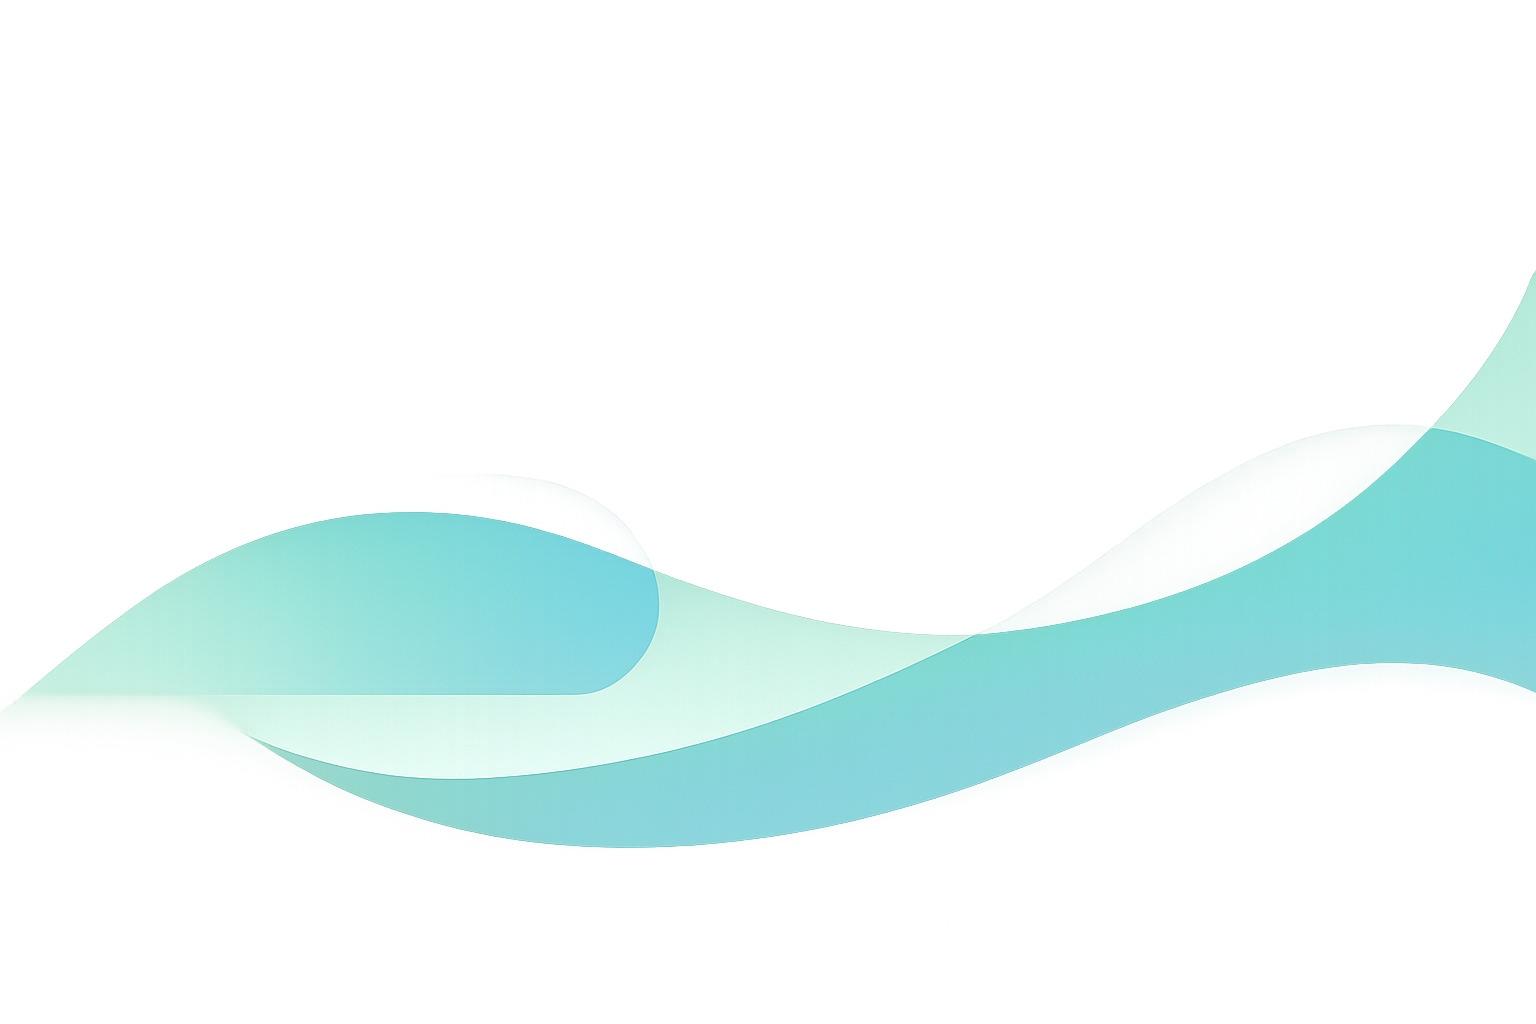
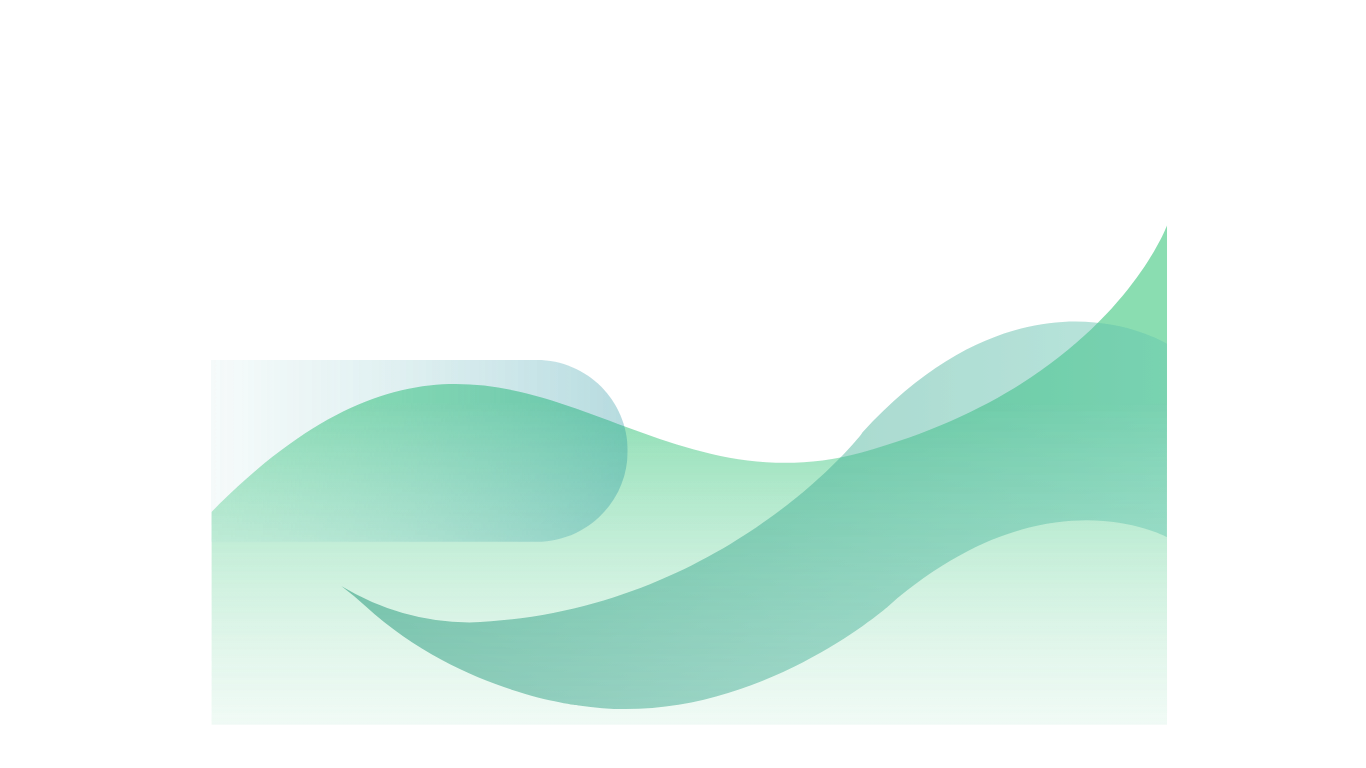
Tela Ajustada

Changed region(s): [[0.0, 0.25, 1.0, 0.9375]]

diff --git a/src/app/page.js b/src/app/page.js
@@ -220,15 +220,21 @@ export default function Home() {
   const ehDoador = !!usuario && !instituicao && !ehAdmin;
 
   return (
-    <div style={{ fontFamily: "Arial, sans-serif" }}>
+    <div
+        style={{
+            position: "relative",
+            minHeight: "100vh",
+            overflowX: "visible", // ✅ libera lateral
+          }}
+      >
       {estaLogado && (
        <Navbar usuario={usuario} instituicao={instituicao} />
       )}
       
     
-{!estaLogado && (
+    {!estaLogado && (
   
-  <div
+    <div
     style={{
       position: "relative",
       minHeight: "100vh",
@@ -239,6 +245,7 @@ export default function Home() {
       flexDirection: "column",
       alignItems: "center",
       justifyContent: "flex-start",
+      
     }}
   >
 
@@ -473,12 +480,11 @@ export default function Home() {
       alt="Fundo decorativo"
       style={{
         position: "absolute",
-        bottom: 0,
-        left: 0,
-        width: "100vw",
-        maxHeight: "800px", // 👈 controla a altura aqui
-        objectFit: "cover", // 👈 corta o excesso
-       // transform: "translateY(100px)",
+        bottom: -60,
+        left: -360, // 👈 fixa na esquerda
+        width: "200vw", // 👈 cresce pra direita
+        minWidth: "2300px", // opcional
+        height: "1000px", // 👈 altura
         zIndex: 1,
         pointerEvents: "none",
       }}